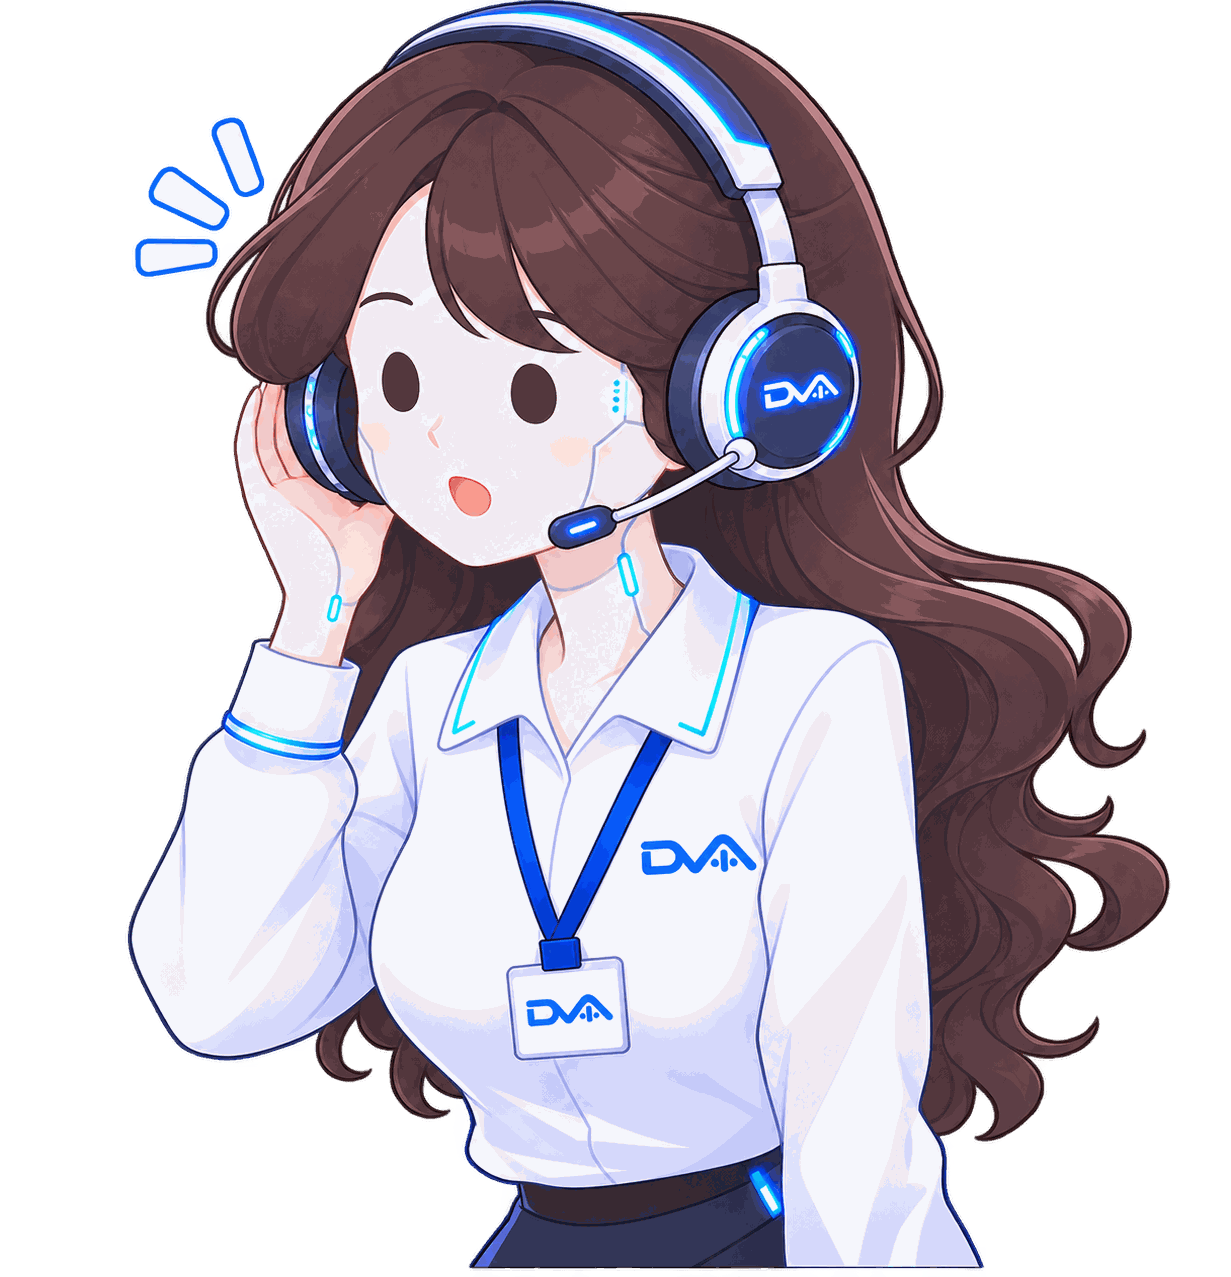
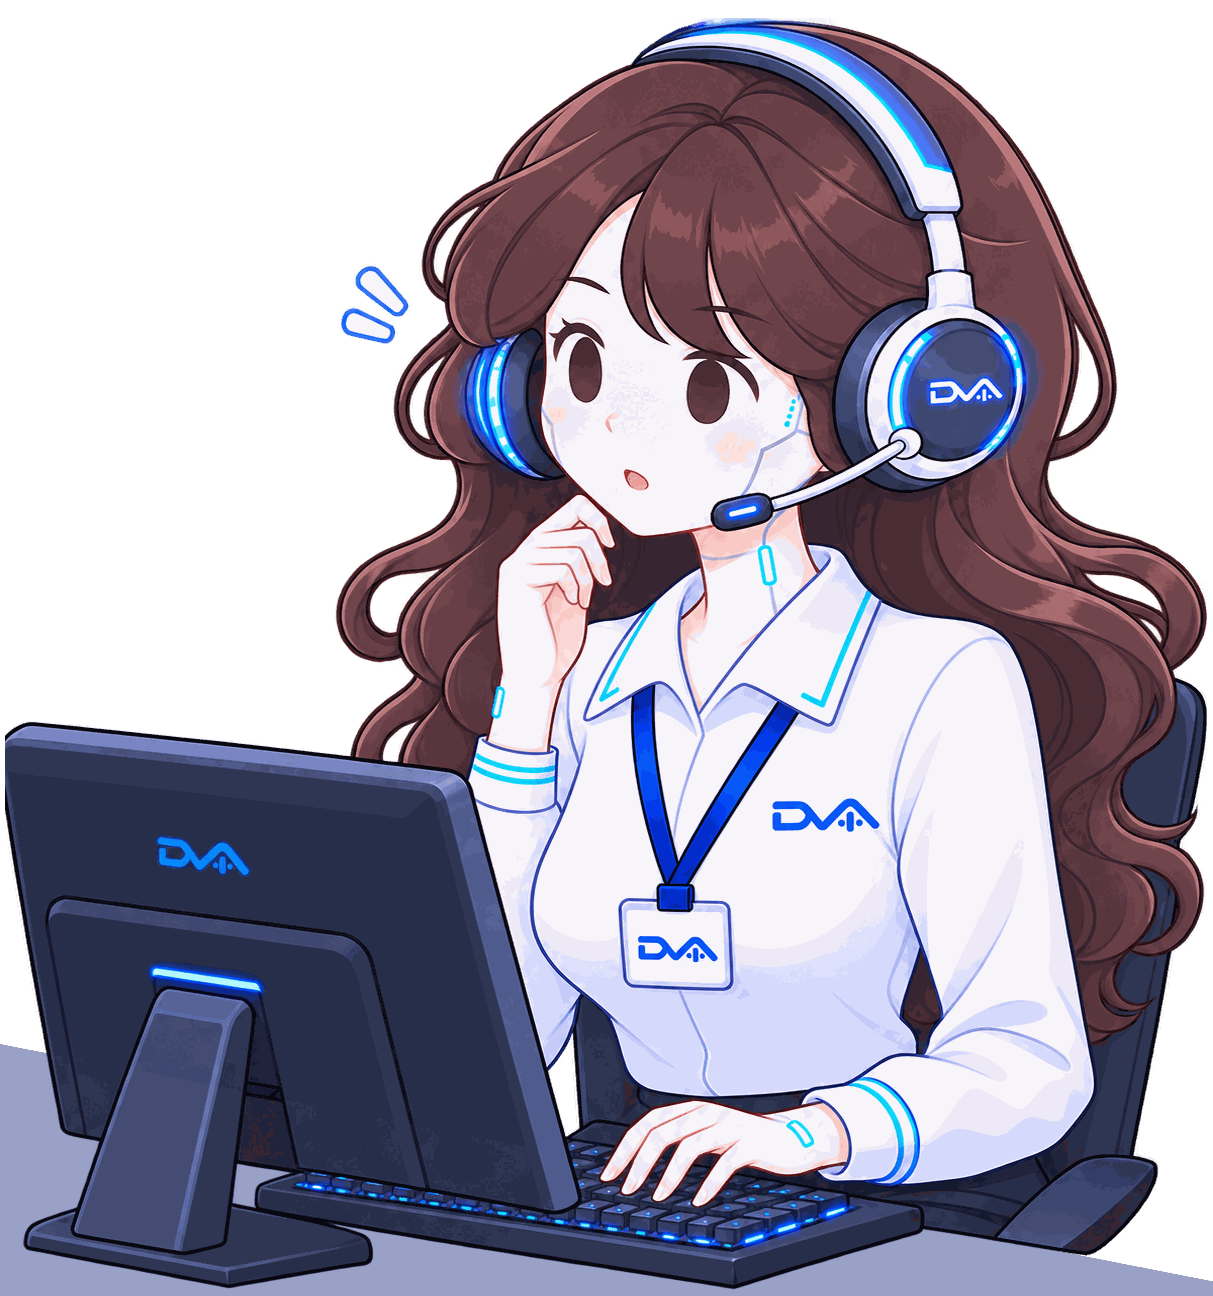
[AI-FE]style: 말풍선 글씨 키우고 굵게 & 캐릭터 사진 2장 교체
배경
- 시연 화면을 멀리서 볼 때 말풍선 글씨가 작고 얇아 읽기 어려웠다.
- listening, toolcalling이 새 그림으로 바뀌어 압축 전 크기(장당 약 2MB)로 들어왔다.

한 일
- 말풍선 목록 글씨를 1.15em에서 1.35em으로 키우고 굵게(700) 바꾼다.
- 두 장을 256색 팔레트 PNG로 압축한다. 해상도(1213x1296)와 투명 배경은 유지한다.
- 합계 약 3.9MB를 약 0.4MB로 줄인다(-89%).

diff --git a/ai/monitor/static/live/live.css b/ai/monitor/static/live/live.css
@@ -48,7 +48,7 @@ body {
 .bubble[hidden] { display: none; }
 
 /* 스크롤은 말풍선이 아니라 목록에: 말풍선에 overflow를 걸면 바깥의 꼬리 점이 잘린다 */
-.bubble ul { margin: 0; padding: 0; list-style: none; min-height: 0; overflow: auto; font-size: 1.15em; }
+.bubble ul { margin: 0; padding: 0; list-style: none; min-height: 0; overflow: auto; font-size: 1.35em; font-weight: 700; }
 .bubble li + li { margin-top: 0.4em; }
 
 /* 생각 꼬리: 큰 점(span)이 말풍선 아래에 반쯤 걸치고 → 작은 점(::before), 캐릭터 머리 쪽으로 */
